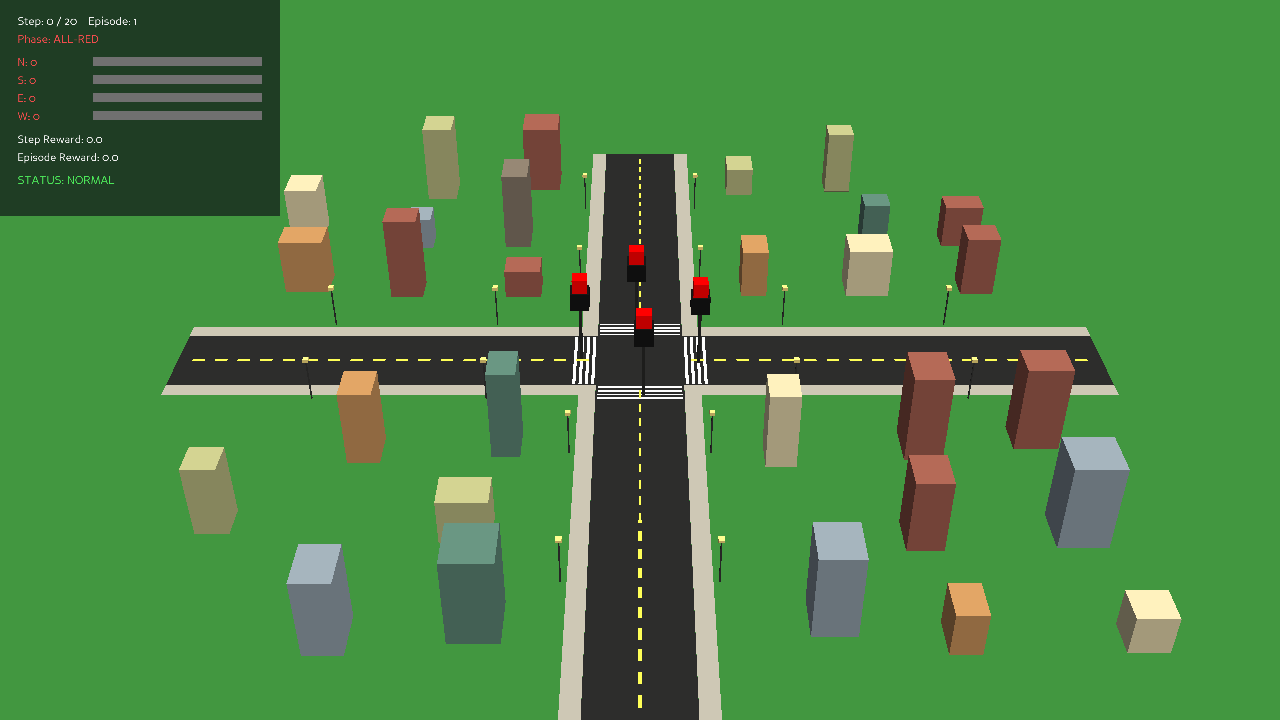
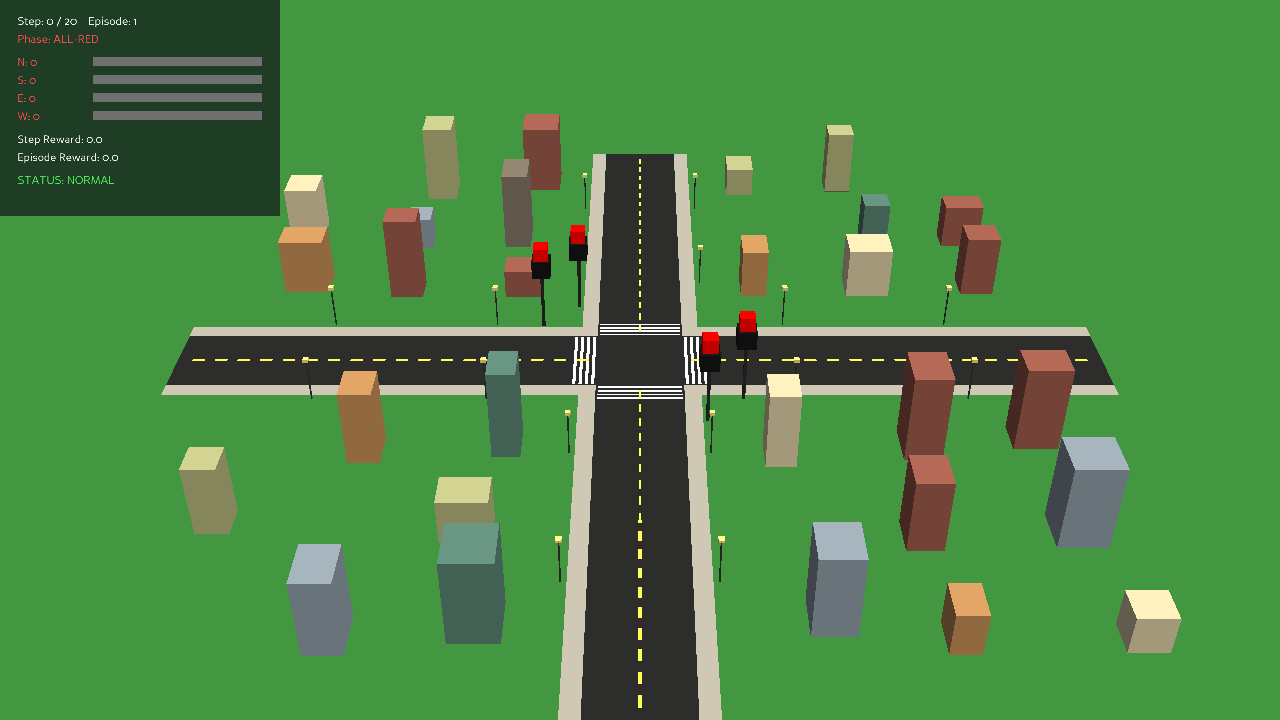
Fix signal light positioning to avoid visual overlap with queued vehicles

Changed region(s): [[0.4062, 0.3056, 0.5938, 0.5194]]

diff --git a/environment/rendering.py b/environment/rendering.py
@@ -307,13 +307,13 @@ class TrafficRenderer(ShowBase):
         return np_
 
     def _build_signals(self):
-        stalk = ROAD_HALF_WIDTH + 1.5
-        median_offset = 0.35
+        stalk = STOP_LINE_DIST
+        side_offset = ROAD_HALF_WIDTH + SIDEWALK_WIDTH + 0.4
         specs = {
-            "N": (-median_offset, stalk),
-            "S": (median_offset, -stalk),
-            "E": (stalk, -median_offset),
-            "W": (-stalk, median_offset),
+            "N": (-side_offset, stalk),
+            "S": (side_offset, -stalk),
+            "E": (stalk, -side_offset),
+            "W": (-stalk, side_offset),
         }
         housing_z = SIGNAL_POLE_HEIGHT + SIGNAL_HOUSING_SIZE / 2.0
         light_z = SIGNAL_POLE_HEIGHT + SIGNAL_HOUSING_SIZE + SIGNAL_LIGHT_SIZE / 2.0
